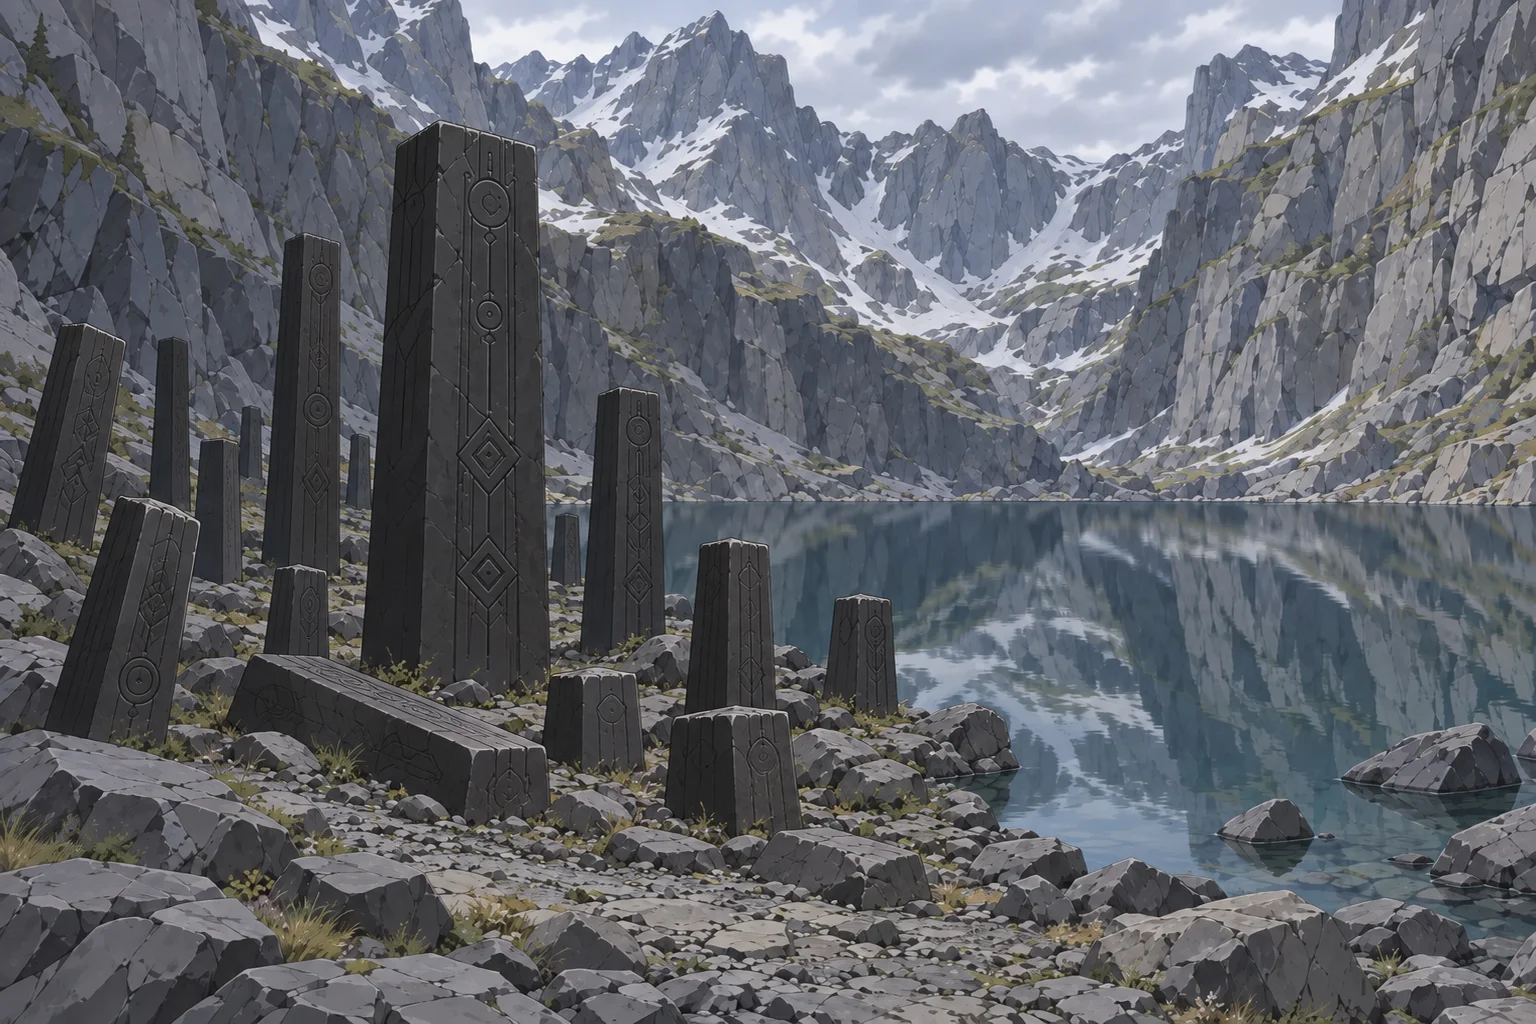
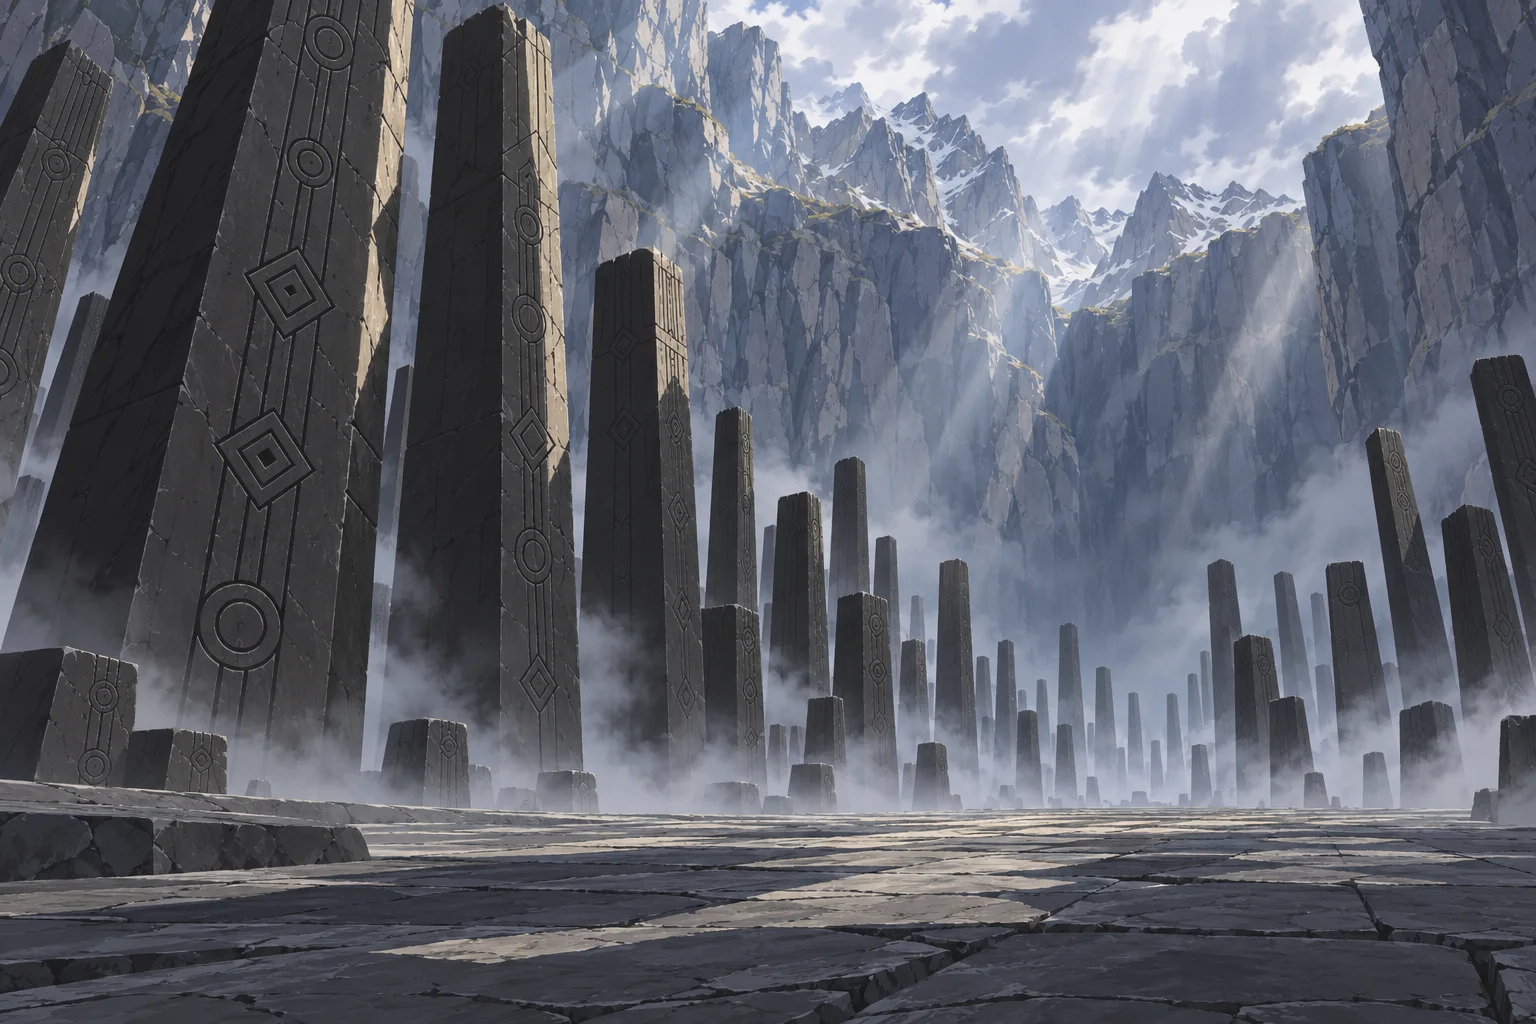
art(鏡湖): 碑林改成山谷盡頭的台地 —— 放大氣勢、拿掉湖（ver -1493）
Ray：「有點小家子氣的感覺，碑林的地方不一定要有湖，那是地圖端末點」
前兩版（單碑／湖畔碑林）已 recycle 退役。

**「小家子氣」的四個成因逐條對治**（寫進 spec，日後任何要有份量的場景照它走）：
  · 碑只有三個人高 → **十幾公尺**，最近的幾座**頂端出框**
  · 平視沒仰角 → **鏡頭放很低、由下往上仰望**，強透視
  · 十幾座散在碎石灘像路邊石頭 → **二三十座排成通道般的陣**，越遠越小越密、沒入霧中；
    地面換成平廣的黑灰石台
  · 湖佔掉右半把碑擠到左邊 → **整個拿掉湖**，三面垂直巨岩壁圍成封閉的廣場
再加：遠方缺口露出雪峰／薄霧淹到碑根／天光從高處垂直灌下拉出光束。
⚠ 右側仍留空給立繪、下半仍不放重點。

**合成那一邊也學到兩條**（spec §四）：
⚠⚠ **ROI 一定要切掉地面** —— 地面是同一種黑灰石，**石板接縫會被當成刻痕**，整片地板發光。
  切在霧線上方就好（霧本來就淹到碑根，下半不亮反而合理）。
⚠⚠ **強度要比單碑版再提一級**：碑多而細，刻痕比單碑細很多，沿用舊參數在
  **遊戲裡那半個畫面**上根本看不出「亮了」。**驗收要看縮圖，不是只看 100% 裁切。**

現行參數：ROI y0~690／石 g<92／MinFilter(11)／門檻 13（刻痕佔石面 3.5%）／
core 1.00 halo 0.60 far 0.24／石面先 ×0.93。

diff --git a/resources/map/_lake_spec.md b/resources/map/_lake_spec.md
@@ -50,16 +50,26 @@ resources/background/lake/
   Lake_Grove_glow_day.webp   符文發光
 ```
 
-⚠⚠ **ver -1492：Ray 改成「石碑林」**（原本是一座）—— 單碑版那兩張已走 recycle 退役。
-畫面：被陡峭銀灰山壁圍成**封閉盆地**的小湖、湖面如鏡倒映山壁、黑灰碎石岸；
-岸上立著**十幾座黑色方柱**：高矮粗細不一、排成不規則的陣、幾座傾斜、一兩座倒下、
-一兩座只剩半截斷樁；**最高的那座在中央偏左**，其餘往左後方與前景散開。
-右側留給立繪、下半是碎石灘（讓開對話框）。
-⚠ 節點 id 建議由 `monolith` 改成 `grove`（名字要說實話）—— 拓樸定案時一起改。
+⚠⚠⚠ **ver -1493：碑林那一格不在湖畔，而且要「大」**（Ray：「有點小家子氣的感覺，
+碑林的地方**不一定要有湖**，那是地圖端末點」）—— 前兩版（單碑／湖畔碑林）都已 recycle 退役。
 
-⚠ 狀態差分要放進**基底名**（`_glow`），不能放在時段後面 ——
-`bandNames` 組出來的是「基底名 ＋ _時段」，時段永遠在最後（憲法 §6.5.4，`flood` 那條同理）。
-⇒ 之後補時段差分時是 `Lake_Monolith_{dawn,dusk,night}` 與 `Lake_Monolith_glow_{dawn,dusk,night}`。
+**「小家子氣」的四個成因，逐條對治**（日後任何要「有份量」的場景照這張走）：
+
+| 成因 | 改成 |
+|---|---|
+| 碑只有**三個人高**，畫面上佔不到一半 | **十幾公尺高**；最近的那幾座**頂端直接出框**，看不到頂 |
+| **平視**、沒有仰角 | **鏡頭放很低、由下往上仰望**，強透視：近的巨大、遠的急縮 |
+| 十幾座散在碎石灘上，讀起來像**路邊的石頭** | **二三十座**排成**通道般的陣**，越遠越小越密，消失在霧裡；地面換成**平廣的黑灰石台** |
+| **湖佔掉右半**，碑被擠到左邊 | **整個拿掉湖**（Ray 說末端點不必有湖）；三面**垂直的巨大岩壁**把台地圍成封閉的廣場 |
+
+⚠ 再加兩件把份量撐起來：遠方岩壁的缺口露出**雪峰**；**薄霧從地面漫上來淹到碑根**，
+天光從高處的缺口**垂直灌下**、在霧裡拉出光束。
+⚠ **右側仍然留空**給立繪（最巨大的幾座靠左側與中央偏左，右側只排較遠較小的）；
+**下半仍然不放重點**（對話框）。
+
+畫面：山谷盡頭的高地台地、一片巨大的黑色石碑林。
+⚠ 節點 id 建議由 `monolith` 改成 `grove`（名字要說實話）—— 拓樸定案時一起改。
+⚠ 它仍然是**同一張地圖**的末端點，所以檔名前綴照舊跟著地圖走（`Lake_`，暫定）。
 
 ## 四、⚠⚠⚠ 發光版**不要叫模型畫**，用本機合成
 
